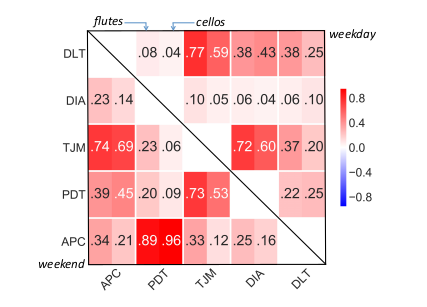
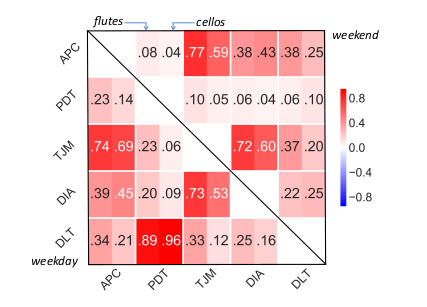
updated slides / fixed mobility correlations plot

diff --git a/slides/slides.tex b/slides/slides.tex
@@ -169,16 +169,13 @@
 %------------------------------------------------
 
 \begin{frame}
-\frametitle{Motivation}
-\textit{\textquote{Analyzing Mobility-Traffic Correlations in Large WLAN Traces: Flutes vs. Cellos}}
-\newline\newline\newline
-\textbf{Isolierte Betrachtung}\newline
-Aktuelle Modelle erfassen nicht das Zusammenspiel von Mobilität und Datenverkehr\newline\newline
-\textbf{Veraltete Daten}\newline
-Trace-basierte Modelle verwenden i.d.R. Datensätze aus der Prä-Smartphone-Ära
-\begin{figure}
-\centering
-\end{figure}
+  \frametitle{Motivation}
+  \textit{\textquote{Analyzing Mobility-Traffic Correlations in Large WLAN Traces: Flutes vs. Cellos}}
+  \newline\newline
+  \textbf{Isolierte Betrachtung}\newline
+  Aktuelle Modelle erfassen nicht das Zusammenspiel von Mobilität und Datenverkehr\newline\newline
+  \textbf{Veraltete Daten}\newline
+  Trace-basierte Modelle verwenden i.d.R. Datensätze aus der Prä-Smartphone-Ära
 \end{frame}
 
 \begin{frame}
@@ -205,16 +202,14 @@ Trace-basierte Modelle verwenden i.d.R. Datensätze aus der Prä-Smartphone-Ära
 %------------------------------------------------
 
 \begin{frame}
-\frametitle{Analyse realer Netzwerkaktivität}
-\begin{itemize}
-  \item Datengetriebene Analysen ($30$\textsc{TB} von $300$\textsc{K} Geräten)
-  \item Framework FLAMeS\footnote{\textbf{F}ramework for \textbf{L}arge-scale \textbf{A}nalysis of 
-  \textbf{M}obil\textbf{e} \textbf{S}ocieties.} zur Analyse
+\frametitle{FLAMeS-Framework: Analyse realer Netzwerkaktivität}
+  \centering
+  Datengetriebene Analysen ($30$\textsc{TB} von $300$\textsc{K} Geräten)
   \begin{figure}
     \centering
-    \includegraphics[width=0.6\textwidth]{images/FLAMeS.png}\newline  
+    \includegraphics[width=0.7\textwidth]{images/FLAMeS.png}
+    \caption*{\textbf{F}ramework for \textbf{L}arge-scale \textbf{A}nalysis of \textbf{M}obil\textbf{e} \textbf{S}ocieties}
   \end{figure}  
-\end{itemize}
 \end{frame}
 
 %------------------------------------------------
@@ -223,25 +218,37 @@ Trace-basierte Modelle verwenden i.d.R. Datensätze aus der Prä-Smartphone-Ära
 
 \begin{frame}
   \frametitle{Phase I: Datensammlung \& Preprocessing}
-
   \begin{figure}
     \centering
-    \includegraphics[width=\textwidth]{images/AP_entry.png}
-    \caption*{\textbf{Quelle 1}: WLAN-AP-Logs}
-  \end{figure}
+    \includegraphics[width=\textwidth]{images/phase1.png}
+    \caption*{\textbf{Phase I}}
+  \end{figure}  
+\end{frame}
 
-  \begin{figure}
+\begin{frame}
+  \frametitle{Phase I: Datensammlung \& Preprocessing}
+
+  \begin{figure}[H]
     \centering
-    \includegraphics[width=0.8\textwidth]{images/netflow_entry_p1.png}
-    \includegraphics[width=0.8\textwidth]{images/netflow_entry_p2.png}
-    \caption*{\textbf{Quelle 2}: Netflow-Logs}
+    \begin{subfigure}[b]{\textwidth}
+      \centering
+      \includegraphics[width=\textwidth]{images/AP_entry.png}
+      \caption*{\textbf{Quelle 1}: WLAN-AP-Logs}
+    \end{subfigure}
+
+    \begin{subfigure}[b]{\textwidth}
+      \centering
+      \includegraphics[width=0.8\textwidth]{images/netflow_entry_p1.png}
+      \includegraphics[width=0.8\textwidth]{images/netflow_entry_p2.png}
+      \caption*{\textbf{Quelle 2}: NetFlow-Logs}
+    \end{subfigure}
   \end{figure}
   
   \textbf{Datenbasis}:
   
   \begin{itemize}
     \item \textbf{Quelle 1} + \textbf{Quelle 2} (DHCP MAC-to-IP-Mapping)
-    \item Zusätzl. Informationen durch rDNS
+    \item Externe Informationen z.B. durch rDNS und OUI
     
   \end{itemize}
       
@@ -263,7 +270,7 @@ Trace-basierte Modelle verwenden i.d.R. Datensätze aus der Prä-Smartphone-Ära
   \frametitle{Phase I: Datensammlung \& Preprocessing}
   \begin{figure}
     \centering
-    \includegraphics[width=0.8\textwidth]{images/traces.png}
+    \includegraphics[width=0.9\textwidth]{images/traces.png}
     \caption*{Kombinierte WLAN-AP- und Netflow-Traces}
   \end{figure}  
 \end{frame}
@@ -271,6 +278,15 @@ Trace-basierte Modelle verwenden i.d.R. Datensätze aus der Prä-Smartphone-Ära
 %------------------------------------------------
 \subsection{\textbf{Phase II}: Analyse der erhobenen Daten}
 %------------------------------------------------
+
+\begin{frame}
+  \frametitle{Phase II: Analyse der erhobenen Daten}
+  \begin{figure}
+    \centering
+    \includegraphics[width=0.8\textwidth]{images/phase2.png}
+    \caption*{\textbf{Phase II}}
+  \end{figure}  
+\end{frame}
 
 \begin{frame}
   \frametitle{Phase II: Zeitliche und räumliche Analyse der Mobilität}
@@ -327,6 +343,15 @@ Trace-basierte Modelle verwenden i.d.R. Datensätze aus der Prä-Smartphone-Ära
 %------------------------------------------------
 
 \begin{frame}
+  \frametitle{Phase III: Korrelationen und integrierte Modelle}
+  \begin{figure}
+    \centering
+    \includegraphics[width=\textwidth]{images/phase3.png}
+    \caption*{\textbf{Phase III}}
+  \end{figure}  
+\end{frame}
+
+\begin{frame}
   \frametitle{Exkurs: Feature-Engineering}
 
   \begin{figure}
@@ -346,13 +371,14 @@ Trace-basierte Modelle verwenden i.d.R. Datensätze aus der Prä-Smartphone-Ära
 
   \begin{figure}[H]
     \centering
-    \begin{subfigure}[b]{0.4\textwidth}
+    \hspace{-3cm}
+    \begin{subfigure}[b]{0.45\textwidth}
       \includegraphics[width=1.2\textwidth]{images/mobility_correlations.png}
       \caption*{\textbf{Mobilität}}
     \end{subfigure}
-    \hspace{10px}
-    \begin{subfigure}[b]{0.4\textwidth}
-      \includegraphics[width=1.2\textwidth]{images/traffic_correlations.png}  
+    \hspace{3px}
+    \begin{subfigure}[b]{0.45\textwidth}
+      \includegraphics[width=1.5\textwidth]{images/traffic_correlations.png}  
       \caption*{\textbf{Traffic}}
     \end{subfigure}    
   \end{figure}  
@@ -363,17 +389,17 @@ Trace-basierte Modelle verwenden i.d.R. Datensätze aus der Prä-Smartphone-Ära
   \begin{figure}
     \centering
     \includegraphics[width=\textwidth]{images/correlations.png}
-    \caption*{Korrelationen zwischen Mobilitäts- und Traffic-Features.}
+    \caption*{Korrelationen zwischen Mobilitäts- und Traffic-Features}
   \end{figure}
 \end{frame}
 
 \begin{frame}
-  \frametitle{Phase III: Analyse verschiedener Modelle}
-  \textbf{Unterschiede der Mobilitäts- und Traffic-Charakteristiken zwischen den Gerätetypen signifikant?}
+  \frametitle{Phase III: Signifikanz der Unterschiede}
+  \textbf{Unterschiede der Mobilitäts- und Traffic-Charakteristiken zwischen den Gerätetypen signifikant?}\newline
   \begin{itemize}
-    \item SVM: Kombinierte Modelle mit $\approx 81\%$ genauer als isolierte Modelle (Mobilität $\approx 65 \%$, Datenverkehr $\approx 79 \%$)
-    \item Genauigkeit erhöht sich auf $\approx 86\%$, wenn zwischen Wochendenden und Wochentagen differenziert wird    
-    \item $k$-Means-Clustering: Kombinierte Features $\approx81.5 \%$ (Mobilität $\approx 60 \%$, Traffic $\approx 81.2 \%$)
+    \item \textbf{Supervised Classification}:\newline Kombinierte Modelle mit $\approx \boldsymbol{81\%}$ genauer als isolierte Modelle (Mobilität $\approx \boldsymbol{65 \%}$, Datenverkehr $\approx \boldsymbol{79 \%}$)
+    \item Genauigkeit erhöht sich auf $\approx \boldsymbol{86\%}$, wenn zwischen Wochendenden und Wochentagen differenziert wird    
+    \item \textbf{Unsupervised-Clustering}:\newline Kombiniert $\approx\boldsymbol{81.5 \%}$ (Mobilität $\approx \boldsymbol{60 \%}$, Traffic $\approx \boldsymbol{81.2 \%}$)
   \end{itemize}
 \end{frame}
 
@@ -394,7 +420,7 @@ Trace-basierte Modelle verwenden i.d.R. Datensätze aus der Prä-Smartphone-Ära
     \item Geräteklassifizierung
     \item Untersuchung der Mobilitäts- und Datenverkehrmetriken (Gerätetypen, Zeit, Ort)
     \item Signifikante Unterschiede zwischen den Gerätetypen
-    \item Machine Learning --> Kombiniertes Modell --> bildet Unterschiede besser ab als isolierte Modelle
+    \item Kombiniertes Modell bildet Unterschiede besser ab als isolierte Modelle
   \end{itemize}  
 \end{frame}
 
@@ -403,7 +429,7 @@ Trace-basierte Modelle verwenden i.d.R. Datensätze aus der Prä-Smartphone-Ära
 %------------------------------------------------
 
 \begin{frame}
-  \frametitle{Weitere Ansätze}
+  \frametitle{Erweiterung}
   \textbf{Nutzergruppen}
   \begin{itemize}
     \item Mobilität und Datenverkehr nicht nur zwischen Gerätetypen unterschiedlich
@@ -418,7 +444,7 @@ Trace-basierte Modelle verwenden i.d.R. Datensätze aus der Prä-Smartphone-Ära
     \item Bisher existierende Modelle nicht detailliert genug
     \item Intuitive Idee eines Zusammenhangs bestätigt
     \item Anstoß für Entwicklung zukünftiger kombinierter Modelle
-    \item Konzeption und Validierung eines konkreten Modells wird zukünftiger Forschung überlassen    
+    \item Konzeption und Validierung konkreter Modelle wird zukünftiger Forschung überlassen    
   \end{itemize}
 \end{frame}
 
